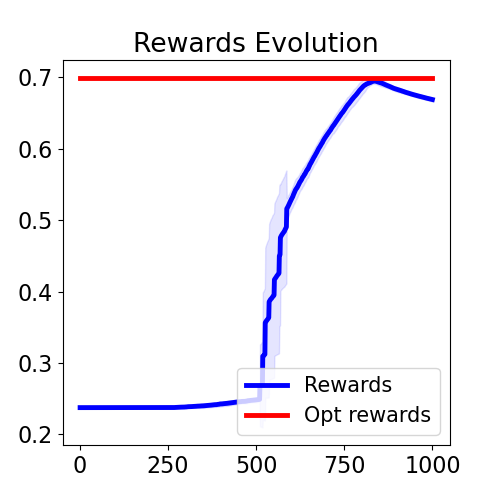
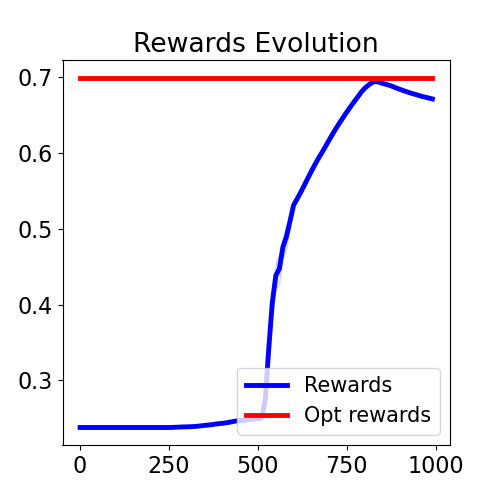
asldkfm

diff --git a/constrained_bandits.py b/constrained_bandits.py
@@ -59,26 +59,35 @@ def run_constrained_bandits(T, reward_gaussian_means, cost_gaussian_means, known
 
 	eps = 0.000001
 	banditalg = ConstrainedBandit( initial_rewards_means, initial_cost_means, threshold, T, known_arms_indicator = known_arms_indicator, alpha_r = alpha_r, alpha_c = alpha_c, do_UCB = do_UCB)
+	local_rewards = []
+	local_costs = []
+
 	for t in range(T):
-	  policy = banditalg.get_policy()
-	  if np.abs(sum(policy) -1) > eps:
-	    raise ValueError("Policy didn't sum to 1. It summed to {} instead.".format(sum(policy)))
+		policy = banditalg.get_policy()
+		if np.abs(sum(policy) -1) > eps:
+			raise ValueError("Policy didn't sum to 1. It summed to {} instead.".format(sum(policy)))
+		index = banditalg.get_arm_index()
+		our_policy_means = banditenv.evaluate_policy(policy)
+		local_rewards.append(our_policy_means[0])
+		local_costs.append(our_policy_means[1])
 
-	  index = banditalg.get_arm_index()
-	  our_policy_means = banditenv.evaluate_policy(policy)
-	  rewards.append(our_policy_means[0])
-	  costs.append(our_policy_means[1])
-	  if our_policy_means[1] > threshold:
-	  	raise ValueError("Our policy means {}, threshold {} our policy {} upper cost mean {} upper reward mean {}".format(our_policy_means[1], threshold, policy, banditalg.upper_cost_means, banditalg.upper_rewards_means))
+		if t%logging_frequency == 0:
+		  rewards.append(np.mean(local_rewards))
+		  costs.append(np.mean(local_costs))
+		  local_rewards = []
+		  local_costs = []
+
+		if our_policy_means[1] > threshold:
+			raise ValueError("Our policy means {}, threshold {} our policy {} upper cost mean {} upper reward mean {}".format(our_policy_means[1], threshold, policy, banditalg.upper_cost_means, banditalg.upper_rewards_means))
 
 
-	  (r, f) = banditenv.get_rewards(index) 
-	  banditalg.update(index, r, f)
+		(r, f) = banditenv.get_rewards(index) 
+		banditalg.update(index, r, f)
 
 	return costs, rewards
 
 
-def get_summary(rewards_costs, num_repetitions, opt_reward, T):
+def get_summary(rewards_costs, num_repetitions, opt_reward, T, logging_frequency):
 	rewards = []
 	costs = []
 	regrets = []
@@ -87,9 +96,9 @@ def get_summary(rewards_costs, num_repetitions, opt_reward, T):
 		rewards.append(rewards_costs[i][1])
 		regrets.append(np.cumsum(opt_reward - rewards_costs[i][1]))
 
-	reg_summary = np.zeros((num_repetitions, T))
-	cost_summary = np.zeros((num_repetitions, T))
-	regret_summary = np.zeros((num_repetitions, T))
+	reg_summary = np.zeros((num_repetitions, int(T/logging_frequency)))
+	cost_summary = np.zeros((num_repetitions, int(T/logging_frequency)))
+	regret_summary = np.zeros((num_repetitions, int(T/logging_frequency)))
 	for i in range(num_repetitions):
 		cost_summary[i, :] = costs[i]
 		reg_summary[i, :] = rewards[i]
@@ -113,7 +122,8 @@ def get_summary(rewards_costs, num_repetitions, opt_reward, T):
 T = 1000
 #T = 100
 num_repetitions = 10
-
+threshold = .5
+logging_frequency = 10
 
 
 path = os.getcwd()
@@ -137,7 +147,6 @@ reward_gaussian_arms = [SimpleGaussianArm(mean, .1, truncated = True) for mean i
 cost_gaussian_arms = [SimpleGaussianArm(mean, .1, truncated = True) for mean in cost_gaussian_means]
 banditenv = DoubleMultiArm(reward_gaussian_arms, cost_gaussian_arms)
 
-threshold = .5
 num_arms = len(reward_gaussian_means)
 
 opt_policy = banditenv.get_optimal_policy(threshold)
@@ -148,9 +157,9 @@ opt_policy_means = banditenv.evaluate_policy(opt_policy)
 opt_reward = opt_policy_means[0]
 opt_cost = opt_policy_means[1]
 
-opt_rewards = [opt_policy_means[0]]*T
-opt_costs =[opt_policy_means[1]]*T
-threshold_cost = [threshold]*T
+opt_rewards = [opt_policy_means[0]]*int(T/logging_frequency)
+opt_costs =[opt_policy_means[1]]*int(T/logging_frequency)
+threshold_cost = [threshold]*int(T/logging_frequency)
 
 # print("Opt policy ", opt_policy)
 # print("opt policy means ", opt_policy_means)
@@ -167,13 +176,17 @@ rewards_costs = ray.get(rewards_costs)
 
 # print(rewards_costs)
 
-mean_cost, std_cost, mean_reward, std_reward, mean_regret, std_regret = get_summary(rewards_costs, num_repetitions, opt_rewards[0], T)
+mean_cost, std_cost, mean_reward, std_reward, mean_regret, std_regret = get_summary(rewards_costs, num_repetitions, opt_rewards[0], T, logging_frequency)
 
 
 # print("Inst regret ", mean_regret)
 # print("Reward ", mean_reward)
 
-timesteps = np.arange(T) + 1
+
+timesteps = np.arange(int(T/logging_frequency))*logging_frequency + 1
+
+
+
 
 # print("opt rewards ", opt_rewards[0])
 

diff --git a/random_mab_problems.py b/random_mab_problems.py
@@ -29,11 +29,18 @@ from utilities import *
 
 ray.init()
 @ray.remote
-def run_random_mab_sweep_experiment(T, reward_gaussian_means, cost_gaussian_means, known_arms_indicator, threshold, do_UCB = False):
+def run_random_mab_sweep_experiment(T, num_arms, do_UCB = False, logging_frequency = 1):
 
 
 
+	reward_gaussian_means = np.random.random(num_arms)
+	cost_gaussian_means = np.random.random(num_arms)
+	threshold = np.min(cost_gaussian_means) + (np.max(cost_gaussian_means) - np.min(cost_gaussian_means))*np.random.random()
 
+
+	known_arms_indicator =  np.zeros(num_arms)
+	known_arms_indicator[np.argmin(cost_gaussian_means)] = 1
+	
 
 
 	#reward_gaussian_means = [.1, .2, .4, .7]
@@ -70,8 +77,11 @@ def run_random_mab_sweep_experiment(T, reward_gaussian_means, cost_gaussian_mean
 
 	  index = banditalg.get_arm_index()
 	  our_policy_means = banditenv.evaluate_policy(policy)
-	  rewards.append(our_policy_means[0])
-	  costs.append(our_policy_means[1])
+
+	  if t%logging_frequency == 0:
+		  rewards.append(our_policy_means[0])
+		  costs.append(our_policy_means[1])
+	  
 	  if our_policy_means[1] > threshold:
 	  	raise ValueError("Our policy means {}, threshold {} our policy {} upper cost mean {} upper reward mean {}".format(our_policy_means[1], threshold, policy, banditalg.upper_cost_means, banditalg.upper_rewards_means))
 
@@ -85,47 +95,31 @@ def run_random_mab_sweep_experiment(T, reward_gaussian_means, cost_gaussian_mean
 
 
 
-	
+T = 1000000
+num_arms = 10
+num_experiments = 10
+logging_frequency = 100
+
+if int(T/logging_frequency)*logging_frequency < T:
+	raise ValueError("The logging frequency does not divide T.")
 
 
-
-
-ray.init()
-@ray.remote
-def run_random_linucb_sweep_experiment(T, d, err_var, lam, nm_ini, 
-	TS = False, logging_frequency  = 1, num_arms = 100):
-	
-	theta = np.random.normal(0, 1, d)
-	theta = theta/np.linalg.norm(theta)
-	mu = np.random.normal(0, 1, d)
-	mu = mu/np.linalg.norm(mu)
-	tau =  np.random.random()
-
-	A_0 = np.random.normal(0, 1, (d, num_arms))#np.eye(10)
-	for i in range(num_arms):
-		A_0[:,i] = A_0[:,i]/np.linalg.norm(A_0[:,i]) 
-
-	bandit = LinearBandit( theta, mu, tau, err_var, A_0 )
-
-	if TS:
-		solv = LinTS(bandit, lam, nm_ini, tau, 
-			logging_frequency = logging_frequency)
+path = os.getcwd()
+if not os.path.isdir("{}/linear_experiments/data/RandomT{}".format(path,T)):
+	try:
+		os.mkdir("{}/linear_experiments/data/RandomT{}".format(path,T))
+		os.mkdir("{}/linear_experiments/plots/RandomT{}".format(path,T))
+	except OSError:
+		print ("Creation of the directories failed")
 	else:
-		solv = LinUCB(bandit, lam, nm_ini, tau, 
-			logging_frequency = logging_frequency)
+		print ("Successfully created the directory ")
 
-	#opt_reward = bandit.best_proba
-	#opt_cost = bandit.best_cost
-	costs   = []
-	rewards = []
 
-	for t in range(T):
-		_, i, scaling, r, c = solv.run_one_step()
-		solv.update_regret(i, scaling)
-		if t&100 ==0 :
-			print("Iteration {}".format(t))
-		if t%logging_frequency == 0:
-			costs.append(c)
-			rewards.append(r)
 
-	return solv.regrets, costs, rewards#, opt_reward, opt_cost 
+
+
+
+
+
+	
+

diff --git a/plotting_mab.py b/plotting_mab.py
@@ -19,9 +19,9 @@ for threshold in thresholds:
 		std_reward, threshold, opt_cost, opt_reward, T ) = pickle.load(open("./mab/data/T{}/data_mab_{}_{}.p".format(T, threshold, T), "rb"))
 
 
-	opt_rewards = [opt_reward]*T
-	opt_costs =[opt_cost]*T
-	threshold_cost = [threshold]*T
+	opt_rewards = [opt_reward]*len(timesteps)
+	opt_costs =[opt_cost]*len(timesteps)
+	threshold_cost = [threshold]*len(timesteps)
 
 	logging_frequency = int(T/len(timesteps))
 
